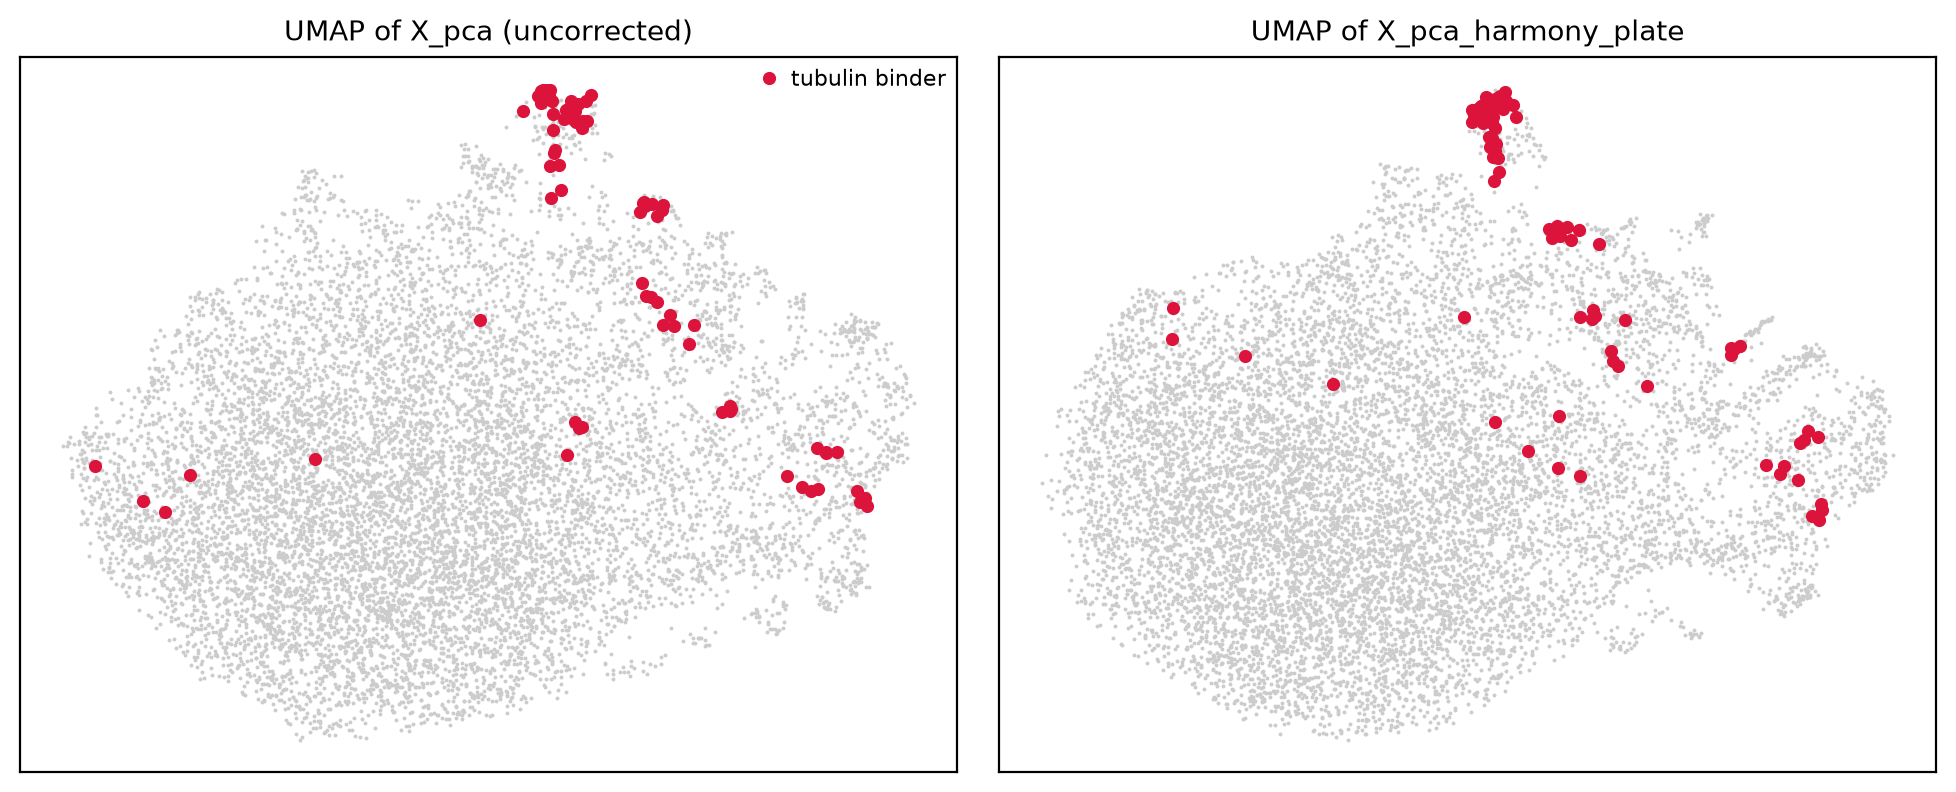
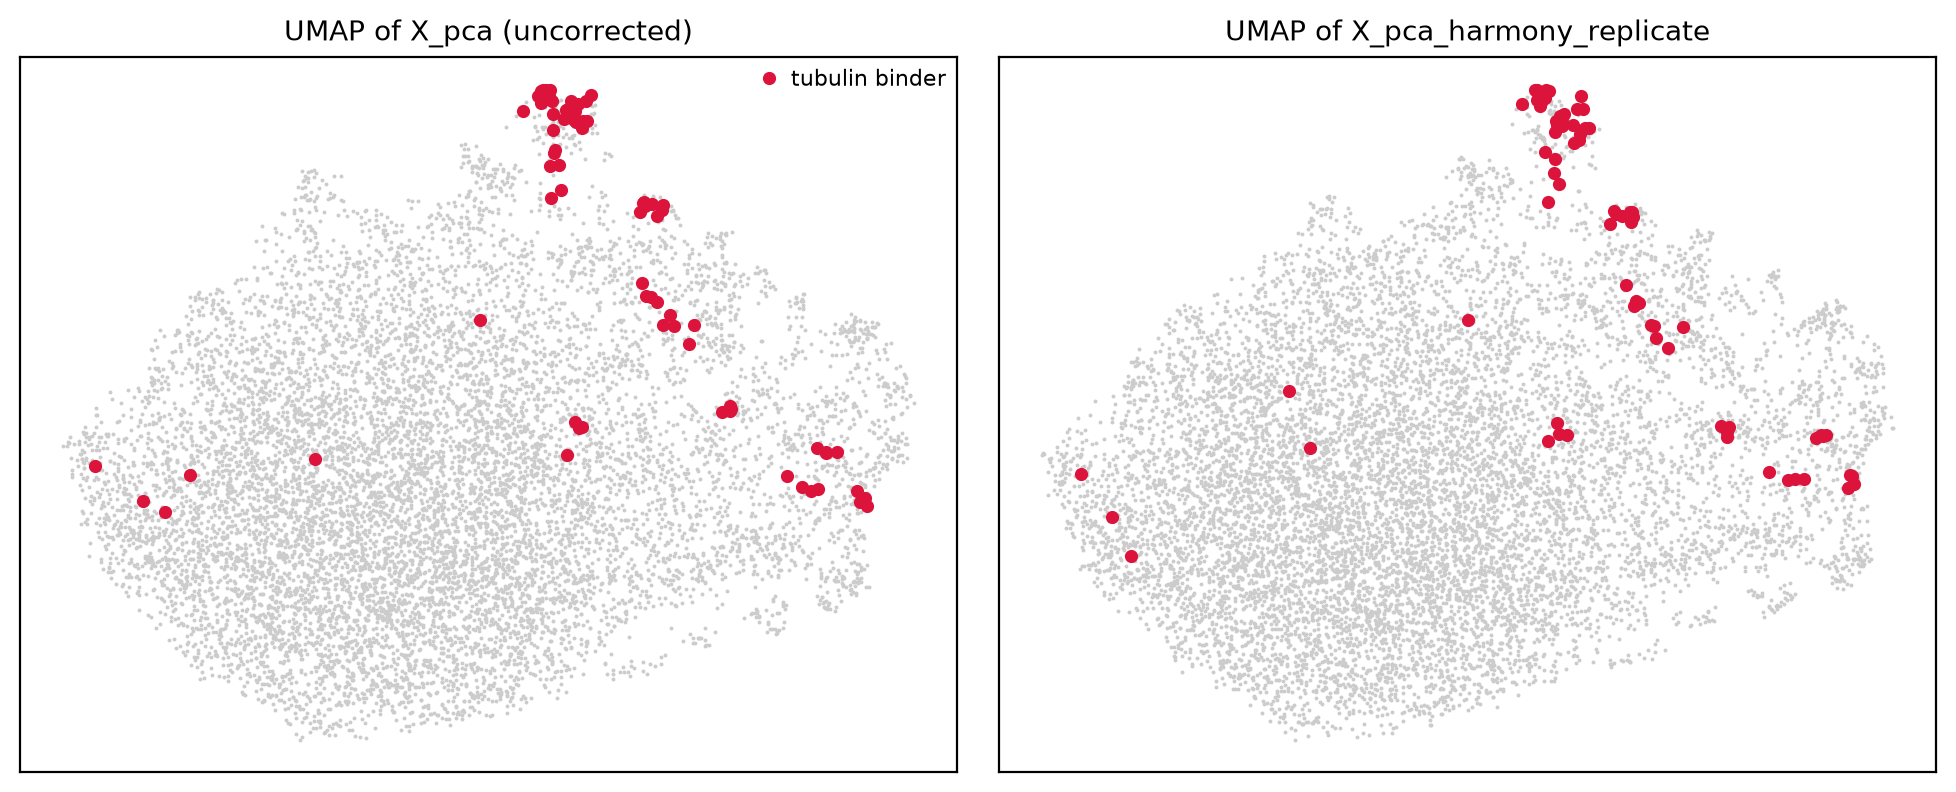
Settle BATCH_KEY on Replicate and propagate it through the series
The Plate-vs-Replicate comparison in notebook 01 section 8b is unchanged -- it
evaluates all three representations regardless of the key -- but the decision it
led to is now made rather than pending. `BATCH_KEY = "Replicate"`, because
Replicate is the physical repeat (~2,440 compounds in each of four) while every
one of the 2,456 treated compounds sits on exactly one Plate, so harmonizing
Plate removes compound-set variation along with the artefact: 5.6 points of
percent replicating, 65.7% -> 60.1%. Harmony on Replicate converges in one
iteration and costs nothing measurable, 65.7% -> 66.0%. "Plate" and None remain
one-line alternatives and the verdict says when each would be reasonable.

`uns['integration']` now records rep and clustering_rep as
X_pca_harmony_replicate, and `recommended_batch_key` -- which would have
contradicted the key actually used -- is replaced by `batch_key_rationale`.

Notebook 03 reads the embedding from uns, so its numbers moved back up. Prose
updated to match what it prints: percent replicating 82% random / 65%
position-matched / 75% plate-matched (was 78/57/77 under Plate), mean
similarities +0.61/+0.12/+0.08/+0.04, DistanceTest-vs-Distance r = 0.996 with a
10-52 unit gap at n = 4. The counterfactual Plate numbers are kept where they
make a point, and section 5 now explains that a plate-matched null is only
meaningful while the plate effect is still present.

Notebook 01 key takeaways gain the regress-out and batch-key conclusions, and
[…]

Changed region(s): [[0.5302, 0.0909, 0.9668, 0.9394], [0.6237, 0.0303, 0.8732, 0.0606]]

diff --git a/README.md b/README.md
@@ -76,9 +76,10 @@ Set `EU_OS_H5AD` if your copy is not at `data/eu_os_imtm_hepg2.h5ad`.
 **Run notebook 01 first.** Its last section writes
 `data/eu_os_imtm_hepg2_integrated.h5ad`, which notebooks 02 and 03 load instead of
 recomputing. That object carries all four matrices, both Harmony embeddings, UMAP, Leiden
-labels, and a record of every choice in `uns['integration']` — including `BATCH_KEY`, which
-notebooks 02 and 03 read from there, so changing it in notebook 01 propagates through the
-series. Both downstream notebooks fall back to the raw object if it is missing.
+labels, and a record of every choice in `uns['integration']` — including `BATCH_KEY`
+(default `"Replicate"`), which notebooks 02 and 03 read from there, so changing it in
+notebook 01 propagates through the series. Both downstream notebooks fall back to the raw
+object if it is missing.
 
 These are **backbone notebooks**: every cell runs against the dataset above, and points
 where you should make a judgement call are marked **TODO**. They are committed without
@@ -102,11 +103,11 @@ Findings that came out of writing them, each reproducible from the notebooks:
   called a mechanism.
 - **Well position is a first-class confound.** Per-plate normalisation removes the plate
   offset but not a gradient recurring at the same coordinates on every plate.
-- **State your reproducibility null.** On the uncorrected PCA, percent replicating is
-  **81%** against a random null but **64%** when the null controls for well position — a
-  17-point swing on a choice that often goes unstated. Same-compound wells reach +0.61 mean
-  similarity against +0.12 for wells merely sharing a plate coordinate, so the signal is
-  real; the null still changes the headline.
+- **State your reproducibility null.** Percent replicating is **82%** against a random null
+  but **65%** when the null controls for well position — a 16-point swing on a choice that
+  often goes unstated. Same-compound wells reach +0.61 mean similarity against +0.12 for
+  wells merely sharing a plate coordinate, so the signal is real; the null still changes the
+  headline.
 - **Regressing out cell count trades biology for consistency.** `cell_count` correlates
   with PC1 at r = 0.57, but for cytotoxic and antimitotic compounds a low cell count *is*
   the phenotype. Running `sc.pp.regress_out` on it costs 0.11 of tubulin-binder AUROC,
@@ -115,12 +116,14 @@ Findings that came out of writing them, each reproducible from the notebooks:
   support. Reproducibility, meanwhile, *improves* (66% -> 70%). Both are real: cell count
   is part technical axis, part readout, and a per-feature OLS cannot separate them. Kept as
   a layer, not applied to `.X`.
-- **`Plate` is a design variable, not a batch.** All 2,456 treated compounds sit on exactly
-  one library plate, so "remove what is specific to this plate" and "remove what is
-  specific to these compounds" are the same instruction. Harmony on `Plate` does drop plate
-  eta-squared from 0.030 to 0.003, but costs 5.6 points of percent replicating. Harmony on
-  `Replicate` — the actual technical repeat, with all ~2,440 compounds in each — converges
-  in one iteration and takes nothing away. Neither touches the dominant confound: `Well`
+- **Batch-correct the repeat, not the layout.** All 2,456 treated compounds sit on exactly
+  one library plate, so for `Plate` "remove what is specific to this plate" and "remove what
+  is specific to these compounds" are the same instruction. Harmony on `Plate` does drop
+  plate eta-squared from 0.030 to 0.003, but costs 5.6 points of percent replicating
+  (65.7% -> 60.1%). Harmony on `Replicate` — the actual technical repeat, with all ~2,440
+  compounds in each — converges in one iteration and takes nothing away (65.7% -> 66.0%).
+  The notebooks default to `BATCH_KEY = "Replicate"` for that reason; `"Plate"` and `None`
+  are one-line alternatives. Neither correction touches the dominant confound: `Well`
   position, at eta-squared = 0.156, five times `Plate` and forty times `Replicate`.
 - **`ulm` equals `zscore` on unweighted sets.** With binary membership and no covariates
   the two correlate at r = 1.00; `ulm` only earns its keep once sets carry weights.
